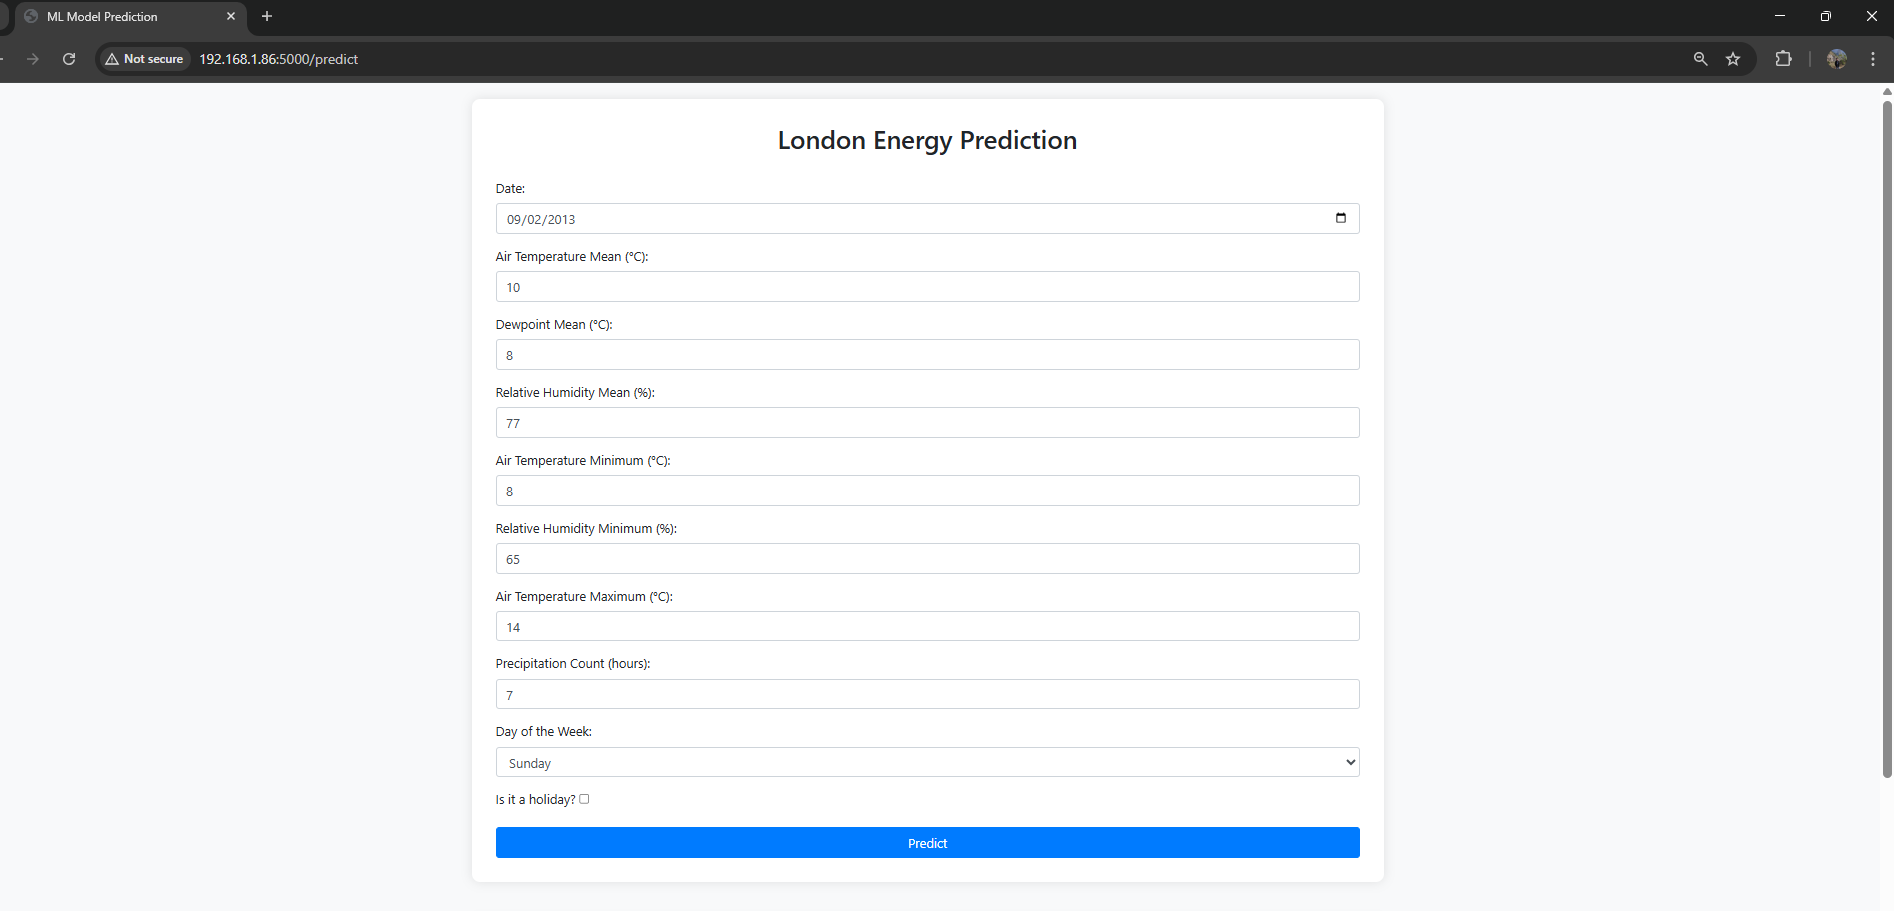
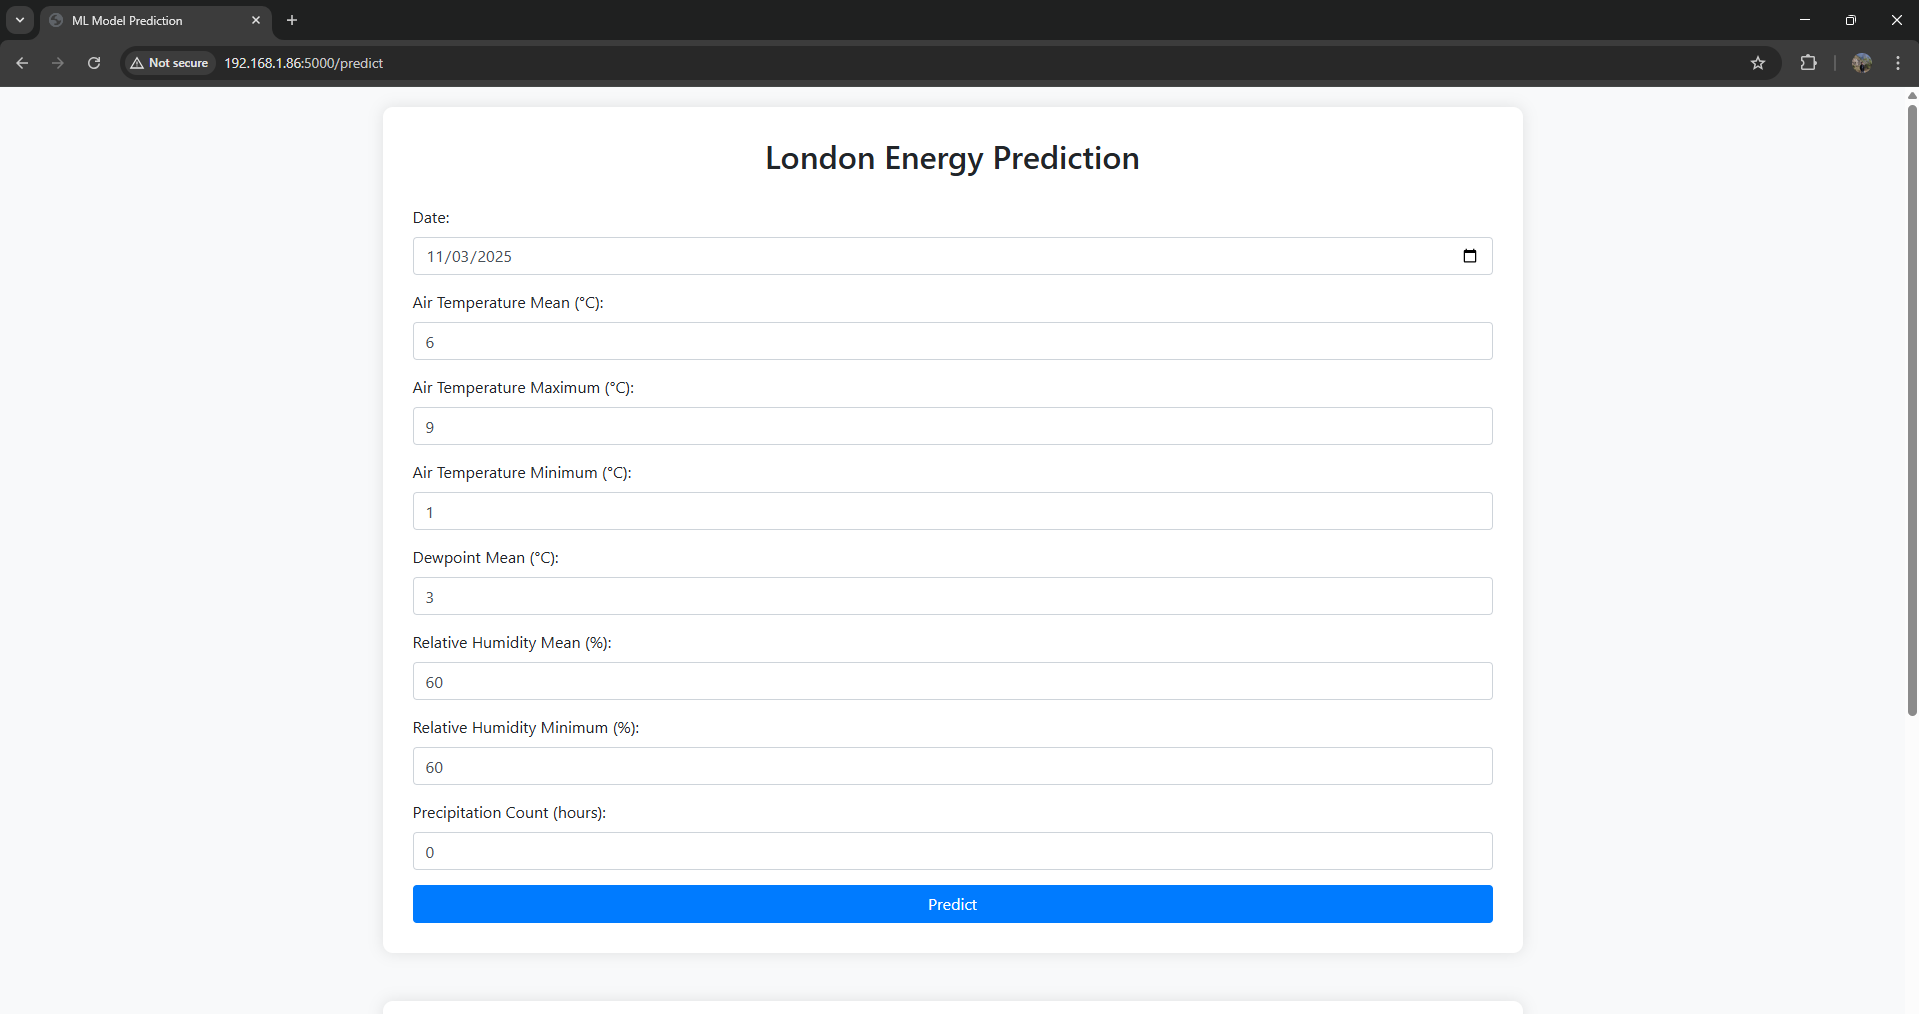
redefine user inputs

diff --git a/templates/home.html b/templates/home.html
@@ -42,6 +42,17 @@
             <label for="air_temperature_mean">Air Temperature Mean (°C):</label>
             <input type="number" step="any" class="form-control" id="air_temperature_mean" name="air_temperature_mean" required value="{{ request.form.get('air_temperature_mean', '') }}">
         </div>
+
+        <div class="form-group">
+            <label for="air_temperature_max">Air Temperature Maximum (°C):</label>
+            <input type="number" step="any" class="form-control" id="air_temperature_max" name="air_temperature_max" required value="{{ request.form.get('air_temperature_max', '') }}">
+        </div>
+        
+        <div class="form-group">
+            <label for="air_temperature_min">Air Temperature Minimum (°C):</label>
+            <input type="number" step="any" class="form-control" id="air_temperature_min" name="air_temperature_min" required value="{{ request.form.get('air_temperature_min', '') }}">
+        </div>
+
         <div class="form-group">
             <label for="dewpoint_mean">Dewpoint Mean (°C):</label>
             <input type="number" step="any" class="form-control" id="dewpoint_mean" name="dewpoint_mean" required value="{{ request.form.get('dewpoint_mean', '') }}">
@@ -50,39 +61,16 @@
             <label for="rltv_hum_mean">Relative Humidity Mean (%):</label>
             <input type="number" step="any" class="form-control" id="rltv_hum_mean" name="rltv_hum_mean" required value="{{ request.form.get('rltv_hum_mean', '') }}">
         </div>
-        <div class="form-group">
-            <label for="air_temperature_min">Air Temperature Minimum (°C):</label>
-            <input type="number" step="any" class="form-control" id="air_temperature_min" name="air_temperature_min" required value="{{ request.form.get('air_temperature_min', '') }}">
-        </div>
+
         <div class="form-group">
             <label for="rltv_hum_min">Relative Humidity Minimum (%):</label>
             <input type="number" step="any" class="form-control" id="rltv_hum_min" name="rltv_hum_min" required value="{{ request.form.get('rltv_hum_min', '') }}">
         </div>
-        <div class="form-group">
-            <label for="air_temperature_max">Air Temperature Maximum (°C):</label>
-            <input type="number" step="any" class="form-control" id="air_temperature_max" name="air_temperature_max" required value="{{ request.form.get('air_temperature_max', '') }}">
-        </div>
+
         <div class="form-group">
             <label for="prcp_count">Precipitation Count (hours):</label>
             <input type="number" step="any" class="form-control" id="prcp_count" name="prcp_count" required value="{{ request.form.get('prcp_count', '') }}">
         </div>
-        <div class="form-group">
-            <label for="day">Day of the Week:</label>
-            <select class="form-control" id="day" name="day">
-                <option value="Monday" {% if request.form.get('day') == "Monday" %}selected{% endif %}>Monday</option>
-                <option value="Tuesday" {% if request.form.get('day') == "Tuesday" %}selected{% endif %}>Tuesday</option>
-                <option value="Wednesday" {% if request.form.get('day') == "Wednesday" %}selected{% endif %}>Wednesday</option>
-                <option value="Thursday" {% if request.form.get('day') == "Thursday" %}selected{% endif %}>Thursday</option>
-                <option value="Friday" {% if request.form.get('day') == "Friday" %}selected{% endif %}>Friday</option>
-                <option value="Saturday" {% if request.form.get('day') == "Saturday" %}selected{% endif %}>Saturday</option>
-                <option value="Sunday" {% if request.form.get('day') == "Sunday" %}selected{% endif %}>Sunday</option>
-            </select>
-        </div>
-        <div class="form-group">
-            <label for="holiday">Is it a holiday?</label>
-            <input type="checkbox" id="holiday" name="holiday" {% if request.form.get('holiday') %}checked{% endif %}>
-        </div>
-
         <button type="submit" class="btn btn-primary btn-block">Predict</button>
     </form>
 </div>
@@ -100,8 +88,6 @@
             <li><strong>Relative Humidity Min:</strong> {{ request.form.get('rltv_hum_min', 'N/A') }} %</li>
             <li><strong>Air Temperature Max:</strong> {{ request.form.get('air_temperature_max', 'N/A') }} °C</li>
             <li><strong>Precipitation Count:</strong> {{ request.form.get('prcp_count', 'N/A') }} hours</li>
-            <li><strong>Day:</strong> {{ request.form.get('day', 'N/A') }}</li>
-            <li><strong>Holiday:</strong> {% if request.form.get('holiday') %}Yes{% else %}No{% endif %}</li>
         </ul>
         
         <h4>Prediction:</h4>

diff --git a/app.py b/app.py
@@ -8,6 +8,7 @@ from flask import Flask, request, render_template
 from src.pipeline.prediction_pipeline import CustomData, PredictPipeline
 from src.exception_handler import CustomException
 from src.logger import logging
+from src.utils import recognize_day, recognize_holiday
 
 
 application = Flask(__name__)
@@ -46,8 +47,8 @@ def prediction():
             rltv_hum_min = float(request.form.get("rltv_hum_min"))
             air_temperature_max = float(request.form.get("air_temperature_max"))
             prcp_count = int(request.form.get("prcp_count"))
-            day = day_dict[str(request.form.get("day"))]
-            holiday = 1 if request.form.get("holiday") == "on" else 0
+            day = recognize_day(date_=date)
+            holiday = recognize_holiday(date_=date)
 
             # Creating an instance of CustomData
             data = CustomData(

diff --git a/src/utils.py b/src/utils.py
@@ -45,3 +45,30 @@ def load_object(file_path):
     except Exception as e:
         raise CustomException(e, sys)
 
+
+def recognize_holiday(date_):
+    try:
+        bank_holidays = pd.read_excel("../data/public holiday/ukbankholidays-jul19.xls")
+        bank_holidays["UK BANK HOLIDAYS"] = pd.to_datetime(bank_holidays["UK BANK HOLIDAYS"], format = "%Y/%m/%d")
+        date_=pd.to_datetime(date_)
+        if date_ in bank_holidays["UK BANK HOLIDAYS"].values:
+            return 1
+        else:
+            return 0
+        
+    except Exception as e:
+        raise CustomException(e, sys)
+
+
+
+
+def recognize_day(date_):
+    try:
+        date_=pd.to_datetime(date_)
+        day = date_.weekday()
+        return day
+    except Exception as e:
+        raise CustomException(e, sys)
+        
+
+

diff --git a/README.md b/README.md
@@ -66,6 +66,8 @@ The Docker image was then pushed to Docker Hub for sharing and deployment. To pu
 ``docker pull bhattars1/london-energy-forcasting-version-1.0``
 ## Deployment
 
+The deployment was done using Flask framework in s simple webpage locally. Expect for the "day" and "holiday", all the parameters were asked as input form the user. The "day" and "holiday" parameters were processed internally in the backend.
+
 The following images are the snips of deployment in a webpage.
 
 
